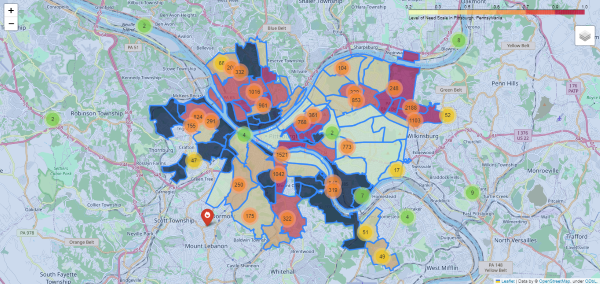
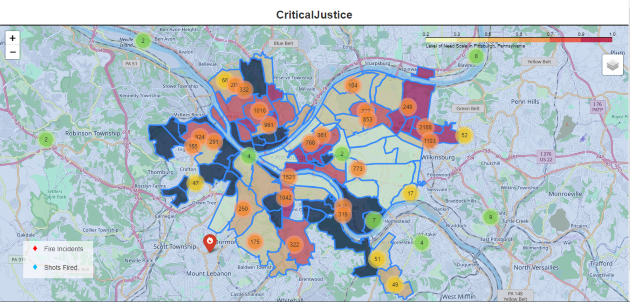
Finished chapter 4 draft

diff --git a/thesis.md b/thesis.md
@@ -339,11 +339,12 @@ These two `for` loops demonstrate how data points from the `shots.csv` file and 
 
 I will cover both the basics of mapping and the problems that emerge when using mapping and data sets in this chapter. Creating arguments and producing analyses to support  arguments both benefit greatly from data collecting. Yet, there is a chance for problems to occur in the data gathering process if the proper procedure is not followed, especially if it involves community data collection.
 
-Normally, for the argument to be more persuasive, visualization may be employed to help people grasp the reasoning and see connections and patterns within the facts. The data has more significance when it is visualized. Data has been visualized with the help of mapping, particularly data pertaining to social concerns. However, there is criteria needed to be followed for a map ot be considered 
+Normally, for the argument to be more persuasive, visualization may be employed to help people grasp the reasoning and see connections and patterns within the facts. The data has more significance when it is visualized. Data has been visualized with the help of mapping, particularly data pertaining to social concerns. A map must however, meet certain requirements in order to be accepted as legitimate.
+I'll be assessing a variety of maps, including the interactive map in **CriticalJustice**, to evaluate which standards they adhere to and which ones they do not.
 
 ## Purpose of Project  
 
-With the project **CriticalJustice**, I hope to shed light on how the lack of infrastructure investment in a effects a neighborhood and its citizens' quality of life. Because it continues to be a problem in the majority of areas today, I believe this matter deserves attention. Furthermore, I believe that a lot of these under-invested communities-both financially and in terms of services-also see an excessive amount of police in their local areas. This belief also comes from the personal experience I have from growing up in a low-income neighborhood. I've done a lot of study on this subject, and when I apply it to myself, I realize how crucial a tool like this is since it represents actual experience. When addressing how causes of crime like excessive police or a lack of infrastructure investment influence a community, this project helps those who live in low-income areas or "dangerous" places feel more represented and understood.
+With the project **CriticalJustice**, I hope to shed light on how the lack of infrastructure investment effects a neighborhood and its citizens' quality of life. Because it continues to be a problem in the majority of areas today, I believe this matter deserves attention. Furthermore, I believe that a lot of these under-invested communities-both financially and in terms of services-also see an excessive amount of police in their local areas. This belief also comes from the personal experience I have from growing up in a low-income neighborhood. I've done a lot of study on this subject, and when I apply it to myself, I realize how crucial a tool like this is since it represents actual experience. When addressing how causes of crime like excessive police or a lack of infrastructure investment influence a community, this project helps those who live in low-income areas or "dangerous" places feel more represented and understood.
 
 ## Issues with Community Data Collection
 
@@ -357,7 +358,7 @@ However, when it pertains to census community data collection, there are certain
 
 ### Bias with Data Collection
 
-The effectiveness of our conclusions is impacted by the data gathering techniques we use. This is especially true for human rights and violence researchers on the ground. These researchers have a higher risk of methodological errors and the resulting weaknesses in their results and policy recommendations since they operate in high-risk, low information environments. Selection bias is defined in greater detail below and happens when a researcher purposefully excludes a certain class of subjects from their data collection. 
+The effectiveness of our conclusions is impacted by the data gathering techniques we use. This is especially true for human rights and violence researchers on the ground. These researchers have a higher risk of methodological errors and the resulting weaknesses in their results and policy recommendations since they operate in high-risk, low information environments. Selection bias is defined in greater detail below and happens when a researcher purposefully excludes a certain class of subjects from their data collection.
 
 ## Design Principles of Mapping
 
@@ -391,23 +392,111 @@ These five design tenets work well together to significantly influence your map.
 
 ## Evaluation
 
-I will be undertaking evaluations of many mapping examples, including my own project's interactive map, in this chapter's portion. This assessment system is going to be built using map criteria that have been gathered from many sources. 
+I will be undertaking evaluations of three mapping examples, including my own project's interactive map, in this chapter's portion. This assessment system is going to be built using map criteria that have been gathered from many sources.
 
 ### Map Criteria
 
-Alongside design principles, there are a number of questions needed to be asked pertaining to map criteria before crafting an interactive map. The data visualization must fulfill certain requirements in order to be understood. Who uses the map would be an example of a question. The person drawing up the map is prompted with this question to specify their goal. This will demonstrate how consistent and audience-specific the mapping is. 
+Alongside design principles, there are a number of questions needed to be asked pertaining to map criteria before crafting an interactive map. The data visualization must fulfill certain requirements in order to be understood. According to the website **opendatasoft**, who uses the map would be an example of a question. The person drawing up the map is prompted with this question to specify their goal. This will demonstrate how consistent and audience-specific the mapping is. [@chouikri2023]
 
-### Evaluation of **CriticalJustice** Map
+In a course called, ***Computer Cartography***, at Western Washington University, Bach and Freelan introduced criteria on ***WHAT ALL GOOD MAPS SHOULD HAVE***, or, the "Golden Rules of Cartography". The writers of this essay outline the components that a cartographer needs in order to produce a high-quality map:
+
+- **Title**: According to the authors, the map's title should be in a prominent typeface that is clear to read and include language that describes the map's location and function.
+
+- **Scale Indicator**: A scale of the map is usually represented by a graph bar scale, according to the author's criteria. The link between a unit of measure on a map and a unit of measure in the actual world must be discernible to the reader.
+
+- **Orientation**: As per the authors, a map should show which direction is north (and sometimes also south, east, and west). Often, a compass rose or north arrow is used for this. Grid marking or graticules can also be used to indicate orientation (e.g. lines of latitude and longitude)
+
+- **Border(s)**: A map border, which should be near to the margins of the mapped region, indicates precisely where the mapped area ends. The border of the map should be the same distance from all sides (balanced). The entire page or map layout should also have a border (enclosing and grouping the title, legend, text boxes, etc.).
+
+- **Legend**: If the map utilizes symbols or colors, the legend is necessary (including shapes of gray and patterns). Maps (including specific map features) do not require legends if the symbology is widely use or straightforward enough for the reader to comprehend. Yet, it must be obvious what each type, weight, and pattern of marking or line denotes.
+
+- **Map Credits**: The name of teh cartographer who developed the map, the date of the map's production or publishing, as well as the date of the map data, would all be included in the map's credits. Even if it is optional, the map's projection may be required for small-scale maps.
+
+- **Locator Map (Inset)**:  If the region of the map is vast scale or difficult to recognize, an inset Locator map is required. It is also possible to utilize inset detail map(s) to illustrate a specific section of the map in more detail (larger scale).
+
+- **Effective Graphical Design**: Effective sentence structure and layout design are equally crucial to written material. The planning and decision-making processes that go into the visual representation of geographic data are referred to as design.
+
+- **Visual Hierarchy**: It is best to employ a hierarchy of symbols for typography, line weights, and shading. Less significant or background information should be smaller and lighter, whereas more prominent aspects are often bigger and/or darker.
+
+- **Purpose**: Every aspect of the map, including the layout, is influenced by the map's function. the audience (those who will use the map) and the client (for whom the map is being made) should both be kept in mind by the cartographer as they formulate the purpose of their map.
+
+### Evaluation of ***CriticalJustice*** Map
 
 ![CriticalJustice Interactive Map](images/critical.png)
 
-### Evaluation of **Mapping Inequality** Map
+This figure shows the interactive map that I created for the **CriticalJustice** project. This map depicts the neighborhoods of Pittsburgh, Pennsylvania utilized a CSV file that included information about each Pittsburgh community. The first question I would ask to evaluate this map would be is there a title that describes the purpose of the map. From this figure, there is a title at the top-middle of the interactive map that states **CriticalJustice** in clear and readable font for the users to see.
+
+Second, there should be a scale indicator that links a unit of measure on the map to another unit of measure in the real world. On this map, there is a scale based on the level of need in a certain community in Pittsburgh, Pennsylvania. This scale is represented by a graphic scale that showcases how a lighter red to show a very low level of need and a darker red to show to a very extreme level of need.
+
+Third, a map ought to be able to show which direction is north, south, east, and west. A compass rose or a north arrow can be used for this. So, the next question I would ask for this map is is there any evidence of orientation In the interactive map **CriticalJustice**, there is not any indication of orientation.
+
+Fourth, a map border will be able to properly identify  where the mapping area begins and stops. Also, the entire page or map layout should also have a border. There are borders and outlines surrounding the shapefile on the interactive map **CriticalJustice**, indicating that this is the area of the map that should be concentrated.
+
+Fifth, if the interactive map makes use of any symbols or colors, including shading or patterns, a legend would be necessary. In the interactive map **CriticalJustice**, there are two different icons that represent the `Shots Fired` data and also the `Fire Incident` data. There is a legend located at the bottom left corner that indicates which color represents which data point. For example, a red icon represents the fire incidents data points while the blue icon represents the shots fired data points.
+
+Sixth, there should be map credits displayed on the interactive that shows the source of the data, name of the cartographer, the data of the map creation / publication and the data of the map data.
+
+Seventh, an inset Locator map would be necessary if the map;s region is difficult to distinguish or has a vast scale. An inset **Detail** map of Pittsburgh is actually included on the interactive map **CriticalJustice** and displays the city in incredible depth.
+
+Eighth, an effective graphical design refers to the planning and decision-making processes that go into the visual representation of geographic data. Achieving balance within the map is one method to make the design work. More specifically, a map with an effective graphical design will be produced if the map and all of its components are tidy, obvious, and symmetrically balanced. In **CriticalJustice**, each of the map elements are separated such as the legend, the scale indicator, the layer control, and the map itself, are separated evenly on the page so there is balance. The only cluster visible would be with the data points, and that is because of the large amount of data that was collected for the interactive map.
+
+Next, the typography, line weights, and shading should follow a hierarchy of symbolism. Generally, more significant characteristics are larger and or darker, while less significant or background information should be smaller and/or lighter. The interactive map **CriticalJustice** follows a hierarchy of symbolism for the shading of the Pittsburgh community. The shading represents the level of need adn the darker the shading, the more need a neighborhood requires. 
+
+Finally, all maps have a purpose, which affects every component and layout of the map. Like it was mentioned before,**CriticalJustice**'s purpose is to seek to shed light on how a neighborhood's and it residents' quality of life is impacted by a lack of infrastructure investment. This issue needs to be addressed because it is still a problem in most places today in the United States. 
+
+### Evaluation of ***Mapping Inequality*** Map
 
 ![Mapping Inequality](images/map2.png)
 
-### Evaluation of **Native Land ** Map
+This figure depicts the interactive map created for the project **Mapping Inequality**. This map showcases how neighborhood were graded by the Home Owners' Loan Corporation graded based on which community should receive loans from banks and which areas in the city were safe investments. The first way I would evaluate this map would be to see if there is a noticeable title located on this map. In this figure, there is a title at the top left corner of the map that states, ***Mapping Inequality: Redlining in America*** that is readable for users.
+
+Second, there should be a scale indicator that showcases a link between a unit of measure in the map and in the real world. According to the legend, the size of each circle represents the area that in that city that the Home Owners' Loan Corporation graded, each hue indicating the percentage of the city that has been graded and colored. The scale reads from green, which is labeled as a "A" grade and means "Best", to pink, which labeled as a "D", which means "Hazardous."
+
+Third, the next question that needs to be asked concerning cartography should be if there is a way to indicate orientation on an interactive map. In the project **Mapping Inequality**, there is not a a compass rose or arrow pointing north visible on the interactive map.
+
+Fourth, a map should be able to distinctively outline the borders of the specific location that is being map. Since **Mapping Inequality** focuses on the United States as a whole, there is not prominent borders and outlines around specific areas. So, there is not visible borders present. 
+
+Fifth, a legend is useful for individual to be able to indicate what the symbols and coloring mean according to the interactive map. The legend, which doubles as a scale indication, may be found in the lower left corner of the interactive map **Mapping Inequality**.
+
+Sixth, the source of teh data, the name of the cartographer, the data of the map creation / publishing, and the data of the map data should all be listed in the interactive's map credits.
+
+Seventh, if the region of map is vast scale or difficult to recognize, an inset Locator map is required. The interactive map **Mapping Inequality** focuses on every region in the United States, however when the map is zoomed in, there is a more zoomed in map that depicts the coloring of the legend.
+
+![Inset Locator](images/inset.png)
+
+This figure depicts an inset Locator map that describes a more specified version of the interactive map.
+
+Eighth, The planning and decision-making procedures that go into the visual representation of geographic data are referred to as an effective graphical design. One way to make the map useful is to achieve equilibrium within it. In the interactive map, **Mapping Inequality**, each element is hidden until the user engages it to display the information, which contributes to the map's neatness. Similar to the **CriticalJustice** interactive map, the only cluster is within the data points. 
+
+Next, line weights, shading, and typography have to all adhere to a hierarchy of symbolism. Typically, larger and/or darker traits denote greater significance, whereas smaller and/or lighter qualities denote less significance or background information. In the **Mapping Inequality** interactive map, each circle's diameter reflects how the Home Owner's Loan Corporation assessed the region in that city. Each circle's size represents how prominent that specific region was pertaining to investment.  
+
+Finally, for a map to be pronounced efficient, there needs to be a purpose to its creation. **Mapping Inequality** graphically demonstrates the interaction between racism, organizational culture, economics, and the physical environment by providing a digital library of the state's participation in housing construction. 
+
+### Evaluation of ***Native Land*** Map
 
 ![Native Land](images/map3.png)
+
+The figure above shows the interactive map developed for the project **Native Land**. This map depicts the Indigenous territories, languages, and treaties that are present in every region in the entire world. The first way that I would evaluate this map would be to see if there is a title that is present for the readers to see. In the top left corner of the map, there is a title that states, **Native Land Digital**, that is readable for users.
+
+Second, there should be scale indicator that represents a link between a unit of measure in the map and in the real world. There is no scale indicator visible in the interactive map, though, because this kind of interactive map serves a more educational function.
+
+Third, there should be some type of clue as to orientation on a map for it to meet the right criteria. In the **Native Land** map, there is a north arrow that is pointing to the north. With this north arrow, there is clear evidence of orientation located in the map.
+
+Fourth, a person will be able to clearly identify the regions that are the major emphasis in an interactive map by using a map border. Although, there are distinct regions visible, they are often grouped together to demonstrate the huge quantity in each region rather than having a clear map boundary around them. The world's continents are divided by the sole boundary that exists.
+
+Fifth, with a legend, the user has a better understanding of the coloring and symbology in the interactive map. Currently on the **Native Land** interactive map, there is not an evident legend located in this specific map. However, there is a search bar that allows the user to search a specific territory, language, and treaty. The coloration in the mapping corresponds to this feature.
+
+Sixth, the source of the data, the identity of the cartographer, the information about the production and publishing of the map, and the information about the map data should all be presented on the interactive.
+
+Seventh, an inset Locator map is necessary if the map's territory is large or challenging to identify. The **Native Land** interactive map depicts Indigenous culture and history in every region in the world. Despite the fact that the data is concentrated in a single area, an inset Locator map that identifies a specific location is not readily apparent. 
+
+Eighth, effective graphical design refers to the planning and decision-making processes that go into the visual display of geographic data. To create balance within the map is one method of making it useful. The map **Native Land** strikes a balance between the elements of its orientation, the interactive map itself, and the search tool.
+
+Next, a hierarchy of symbolism must be observed in the use of line weights, shading, and typography. Larger and/or darker characteristics often indicate higher relevance, whereas smaller and/or lighter characteristics typically indicate less significance or background information. However, the shading in the **Native Land** map only represents the different territories, languages, and treaties present rather than relevance.
+
+Finally, a map must have a goal in mind if it is to be considered effective. Dedicated to provide a free online resource for those interested in learning more about the Indigenous history of the land they live on and visit, **Native Land** is an Indigenous-led initiative.
+
+
 
 ## Threats to Validity
 
